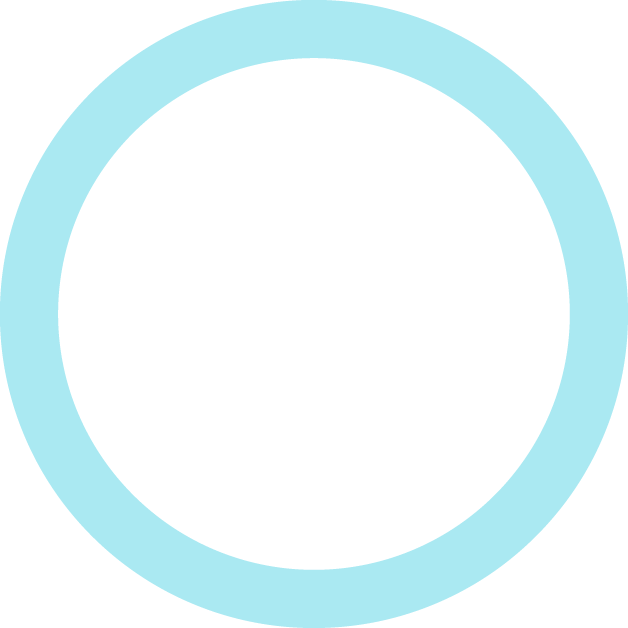
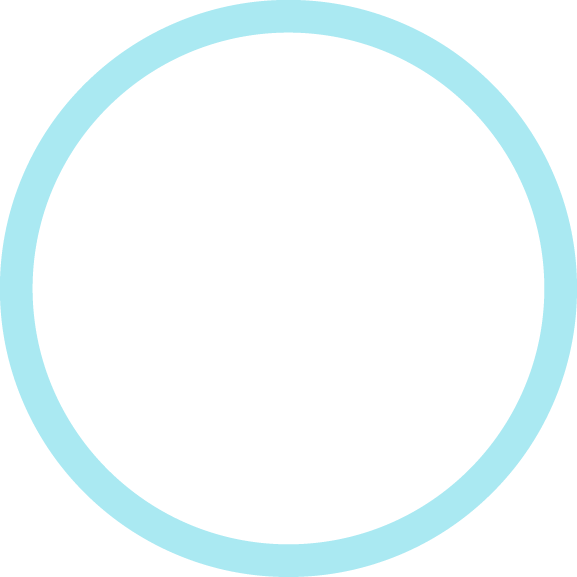
Character Info fixes (#1434)
* Change border image and enable title container

* Add text shadow

* Change skills name

* Remove skill from skill names

* Fix subtitle

* Fix skills info

* Fix muflus skill desc

* Add periods

Changed region(s): [[0.0312, 0.0312, 0.9671, 0.9671]]

diff --git a/client/Assets/Scripts/UI/SkillDescription.cs b/client/Assets/Scripts/UI/SkillDescription.cs
@@ -48,13 +48,13 @@ public class SkillDescription : MonoBehaviour, IPointerDownHandler
         switch (skillData.skillSetType)
         {
             case UIControls.Skill1:
-                skillSetTypeName = "Skill1";
+                skillSetTypeName = "Basic";
                 break;
             case UIControls.Skill2:
-                skillSetTypeName = "Skill2";
+                skillSetTypeName = "Ultimate";
                 break;
             case UIControls.Skill3:
-                skillSetTypeName = "Skill3";
+                skillSetTypeName = "Dash";
                 break;
         }
 
